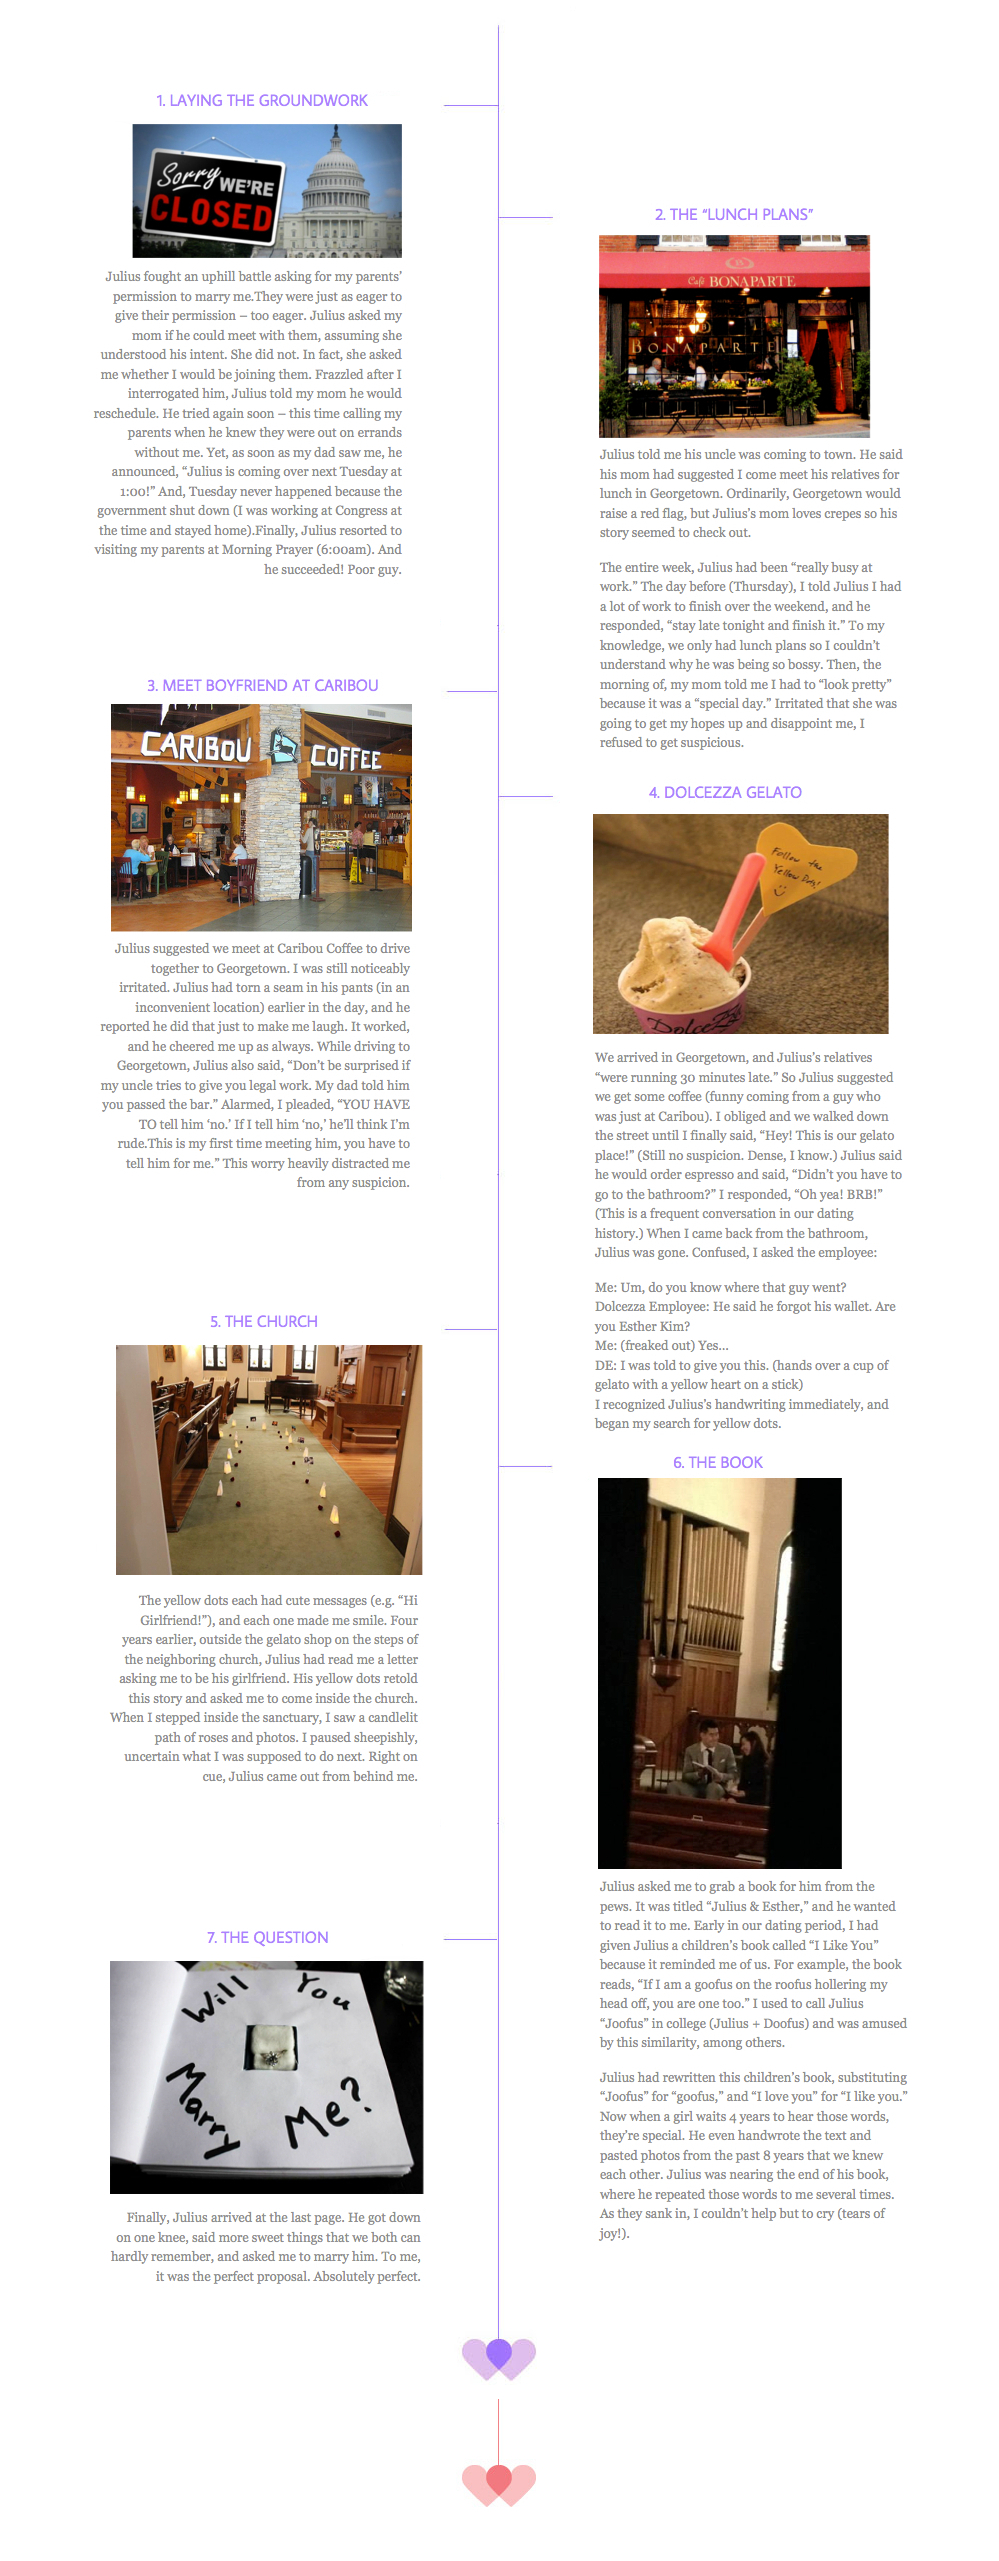
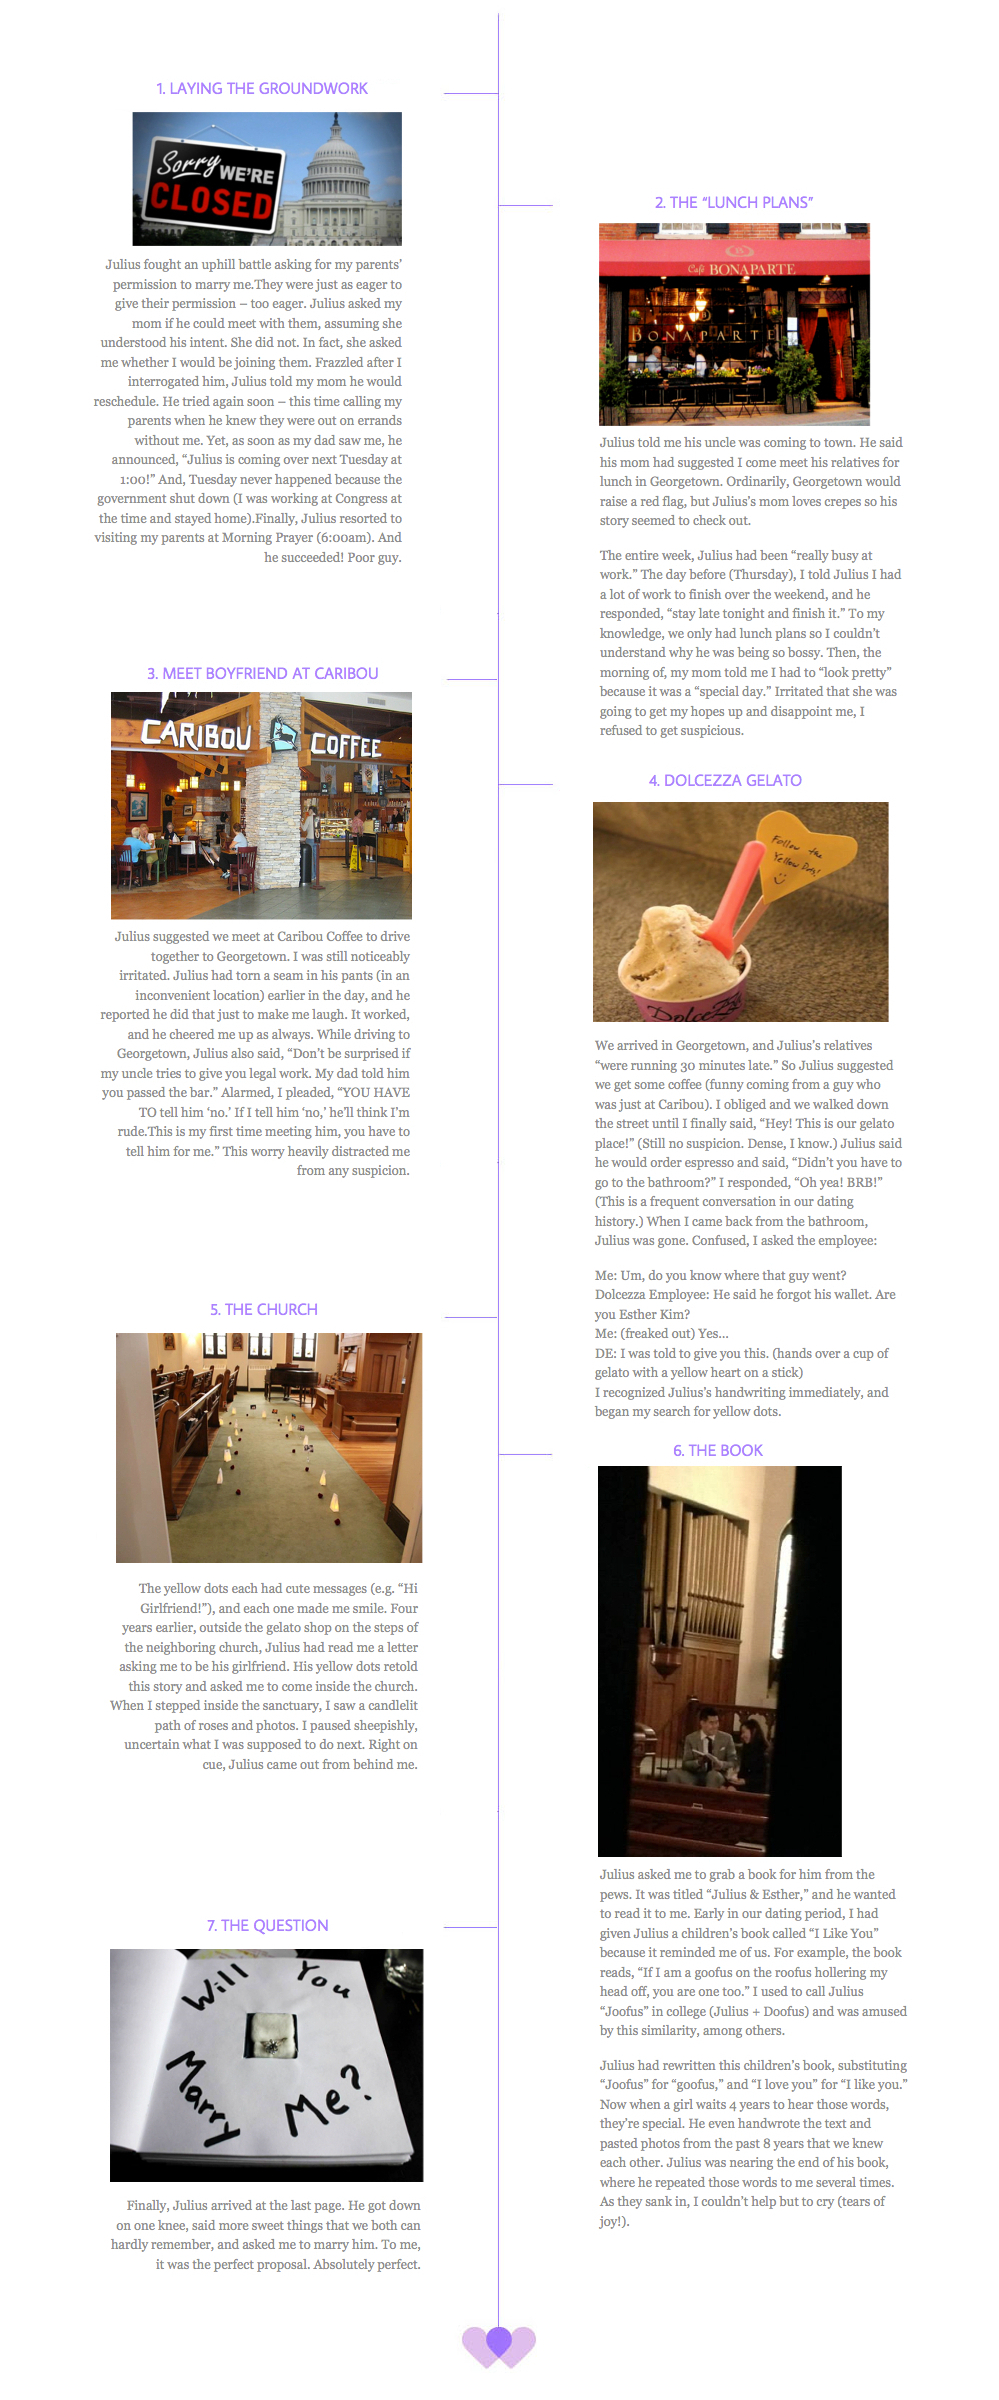
doing crazy timeline changes

Changed region(s): [[0.0931, 0.0312, 0.4344, 0.9375], [0.5896, 0.0625, 0.8999, 0.9375], [0.4655, 0.9062, 0.5275, 1.0]]

diff --git a/secure2aecc21ce57c973d624175017c3f4616.html b/secure2aecc21ce57c973d624175017c3f4616.html
@@ -116,7 +116,7 @@
                     </p>
                 </div>
                 <div id="proposal-wrapper">
-                <img width="998" height="2422" alt="proposal_timeline" src="http://juliusandesther.com/resources/img/proposal-story/proposal-timeline.jpg">
+                <img width="999" height="2561" alt="proposal_timeline" src="http://juliusandesther.com/resources/img/proposal-story/proposal-timeline.jpg">
 
                     <div id="proposal-thanks">
                         <p>
